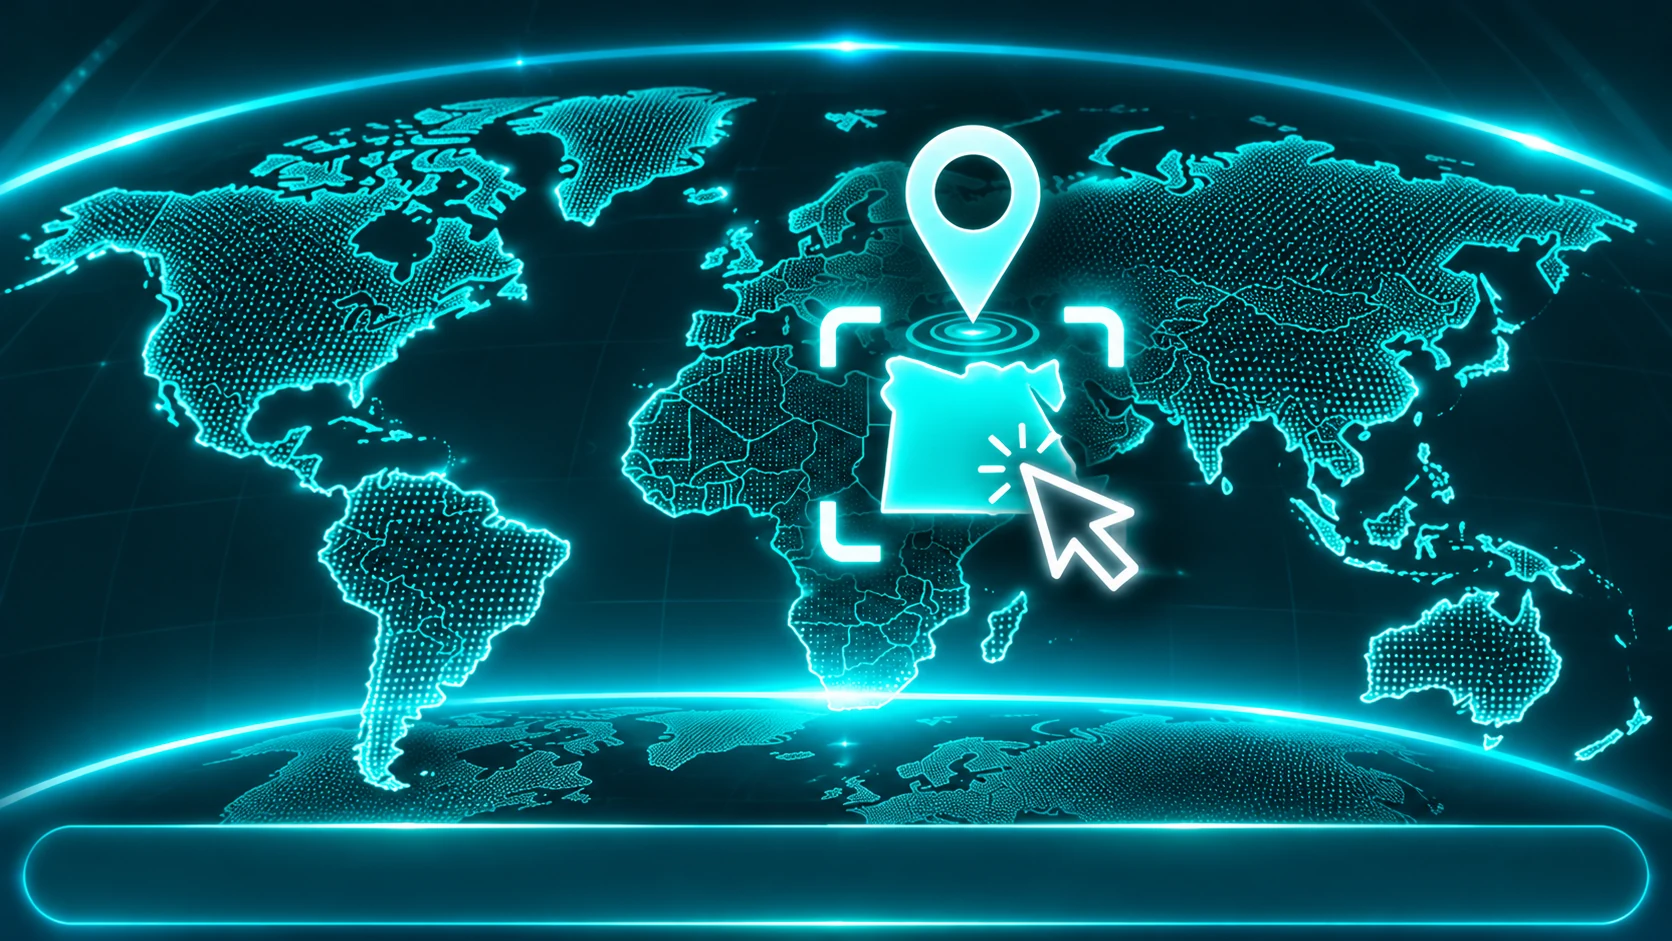
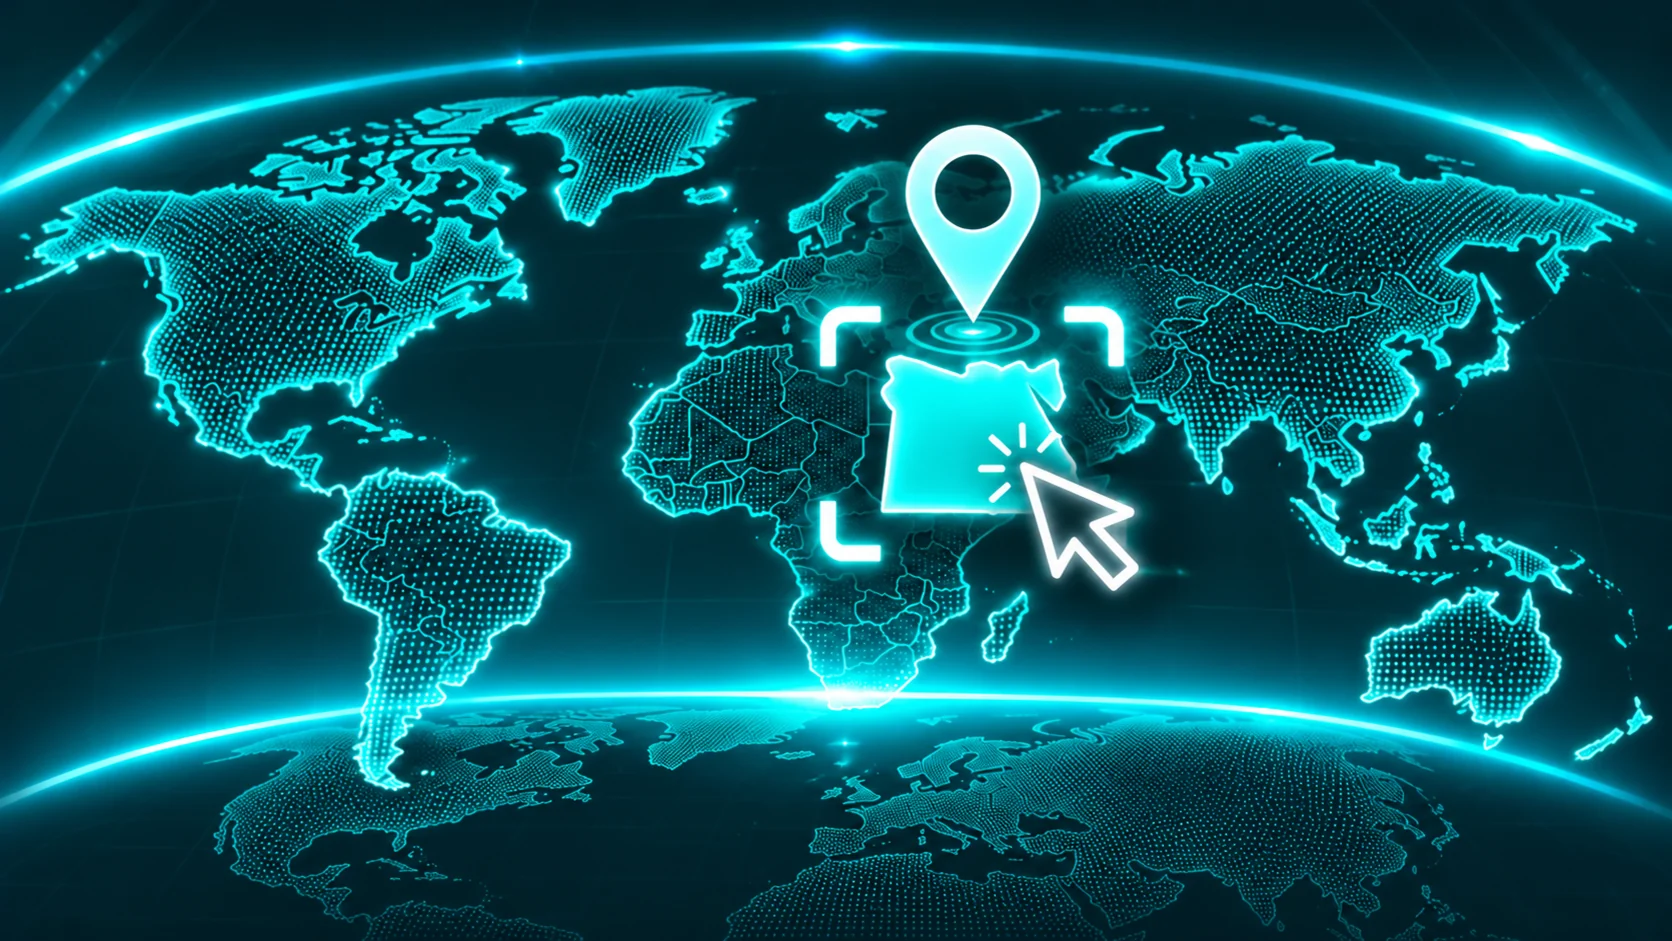
Refine homepage map cover and show fractional progress

diff --git a/index.html b/index.html
@@ -655,7 +655,7 @@ window.__gv138BootFailsafe=setTimeout(function(){
 </div>
 <script src="https://cdn.jsdelivr.net/npm/d3-array@3/dist/d3-array.min.js"></script><script src="https://cdn.jsdelivr.net/npm/d3-geo@3/dist/d3-geo.min.js"></script><script src="https://cdn.jsdelivr.net/npm/topojson-client@3/dist/topojson-client.min.js"></script>
 <script src="https://cdn.jsdelivr.net/npm/globe.gl@2.46.2/dist/globe.gl.min.js"></script><script src="./app.js?v=gv669-desert-expansion"></script><script src="./category-premium-covers-v176.js?v=gv549-world-astronomy"></script><script src="./place-copy-v103.js?v=gv106-waterfall-intros"></script><script src="./quality.js?v=phase41-a91d6"></script><script src="./enhancements-v136.js?v=gv669-desert-expansion"></script><script src="./capital-localization.js?v=gv491-currency-localization"></script><script src="./language-v6.js?v=gv356-capital-placeholder-fix"></script><script src="./map-mobile-v6.js?v=phase41-a91d6"></script><script src="./reading-v6.js?v=phase41-a91d6"></script><script src="./map-v7.js?v=gv126-results-layout"></script><script src="./encyclopedia-v9.js?v=gv372-audit-pop-year"></script><script src="./cinematic-v10.js?v=phase41-a91d6"></script>
-<script src="./visual-v11.js?v=gv550-wonders-separator"></script><script src="./topics-v12.js?v=gv667-unique-forest-gulf-counts"></script><script src="./places-v13.js?v=gv669-desert-expansion"></script><script src="./detail-v14.js?v=gv669-desert-expansion"></script><script src="./home-v17.js?v=gv676-capitals-cover"></script><script src="./icons-v18.js?v=phase46-cache-fix"></script><script src="./game-bank-v109.js?v=gv111-game-pools"></script><script src="./game-countries-v111.js?v=gv493-flag-games-qa"></script><script src="./game-levels-v110.js?v=gv111-difficulty-atlas-fix"></script><script src="./map-challenge-v112.js?v=gv112-161-map-countries"></script><script src="./game-classify-v113.js?v=gv113b-no-answer-leaks"></script><script src="./game-quality-v114.js?v=gv114b-curated-quiz-integrity"></script><script src="./game-concepts-v115.js?v=gv115-concepts100"></script><script src="./game-expansion-v115.js?v=gv116-curated-quiz-bank"></script><script src="./game-classification-v116.js?v=gv116b-reviewed-classification"></script><script src="./game-language-v123.js?v=gv123-all-options-localized"></script><script src="./game-bilingual-v124.js?v=gv124-two-line-answers"></script><script src="./premium-loader-v139.js"></script><script src="./atlas-premium-v155.js?v=gv595-initial-map-filter"></script><script src="./atlas-landmarks-v154.js?v=gv166-focus-hook"></script><script src="./atlas-safe-regions-v150.js"></script><script src="./map-toolbar-v146.js?v=gv163-restored-categories"></script><script src="./atlas-ocean-dots-v152.js"></script><script src="./atlas-card-consistency-v156.js"></script><script src="./atlas-country-shell-v157.js"></script><script src="./atlas-smart-explore-v158.js"></script><script src="./map-first-mobile-v160.js?v=gv160-fix"></script><script src="./map-filters-compact-v161.js?v=gv161-preserve-landmarks"></script><script src="./map-mobile-fit-v162.js?v=gv162-viewport-fix"></script><script src="./atlas-learning-cards-v164.js?v=gv669-desert-expansion"></script><script src="./atlas-smart-highlight-v167.js?v=gv167-focus-fix"></script><script src="./tourism-attractions-v168.js?v=gv657-tourism-intro-lines"></script><script src="./tourism-filter-visibility-v169.js?v=gv169-visible-filter"></script><script src="./tourism-country-guide-v170.js?v=gv620-72-countries"></script><script src="./tourism-country-cards-v181.js?v=gv656-tourism-intro"></script><script src="./sidebar-toggle-fix-v181.js?v=gv217-sections-shortcut"></script><script src="./tourism-articles-ar-v202.js?v=gv202-48-editorial-articles"></script><script src="./tourism-enrichment-v206.js?v=gv206-eg-fr-8"></script><script src="./tourism-enrichment-v207.js?v=gv207-it-sa-8"></script><script src="./tourism-enrichment-v208.js?v=gv208-turkey-spain-8"></script><script src="./tourism-enrichment-v212.js?v=gv212-uk-us-8"></script><script src="./tourism-enrichment-v213.js?v=gv213-cn-in-8"></script><script src="./tourism-enrichment-v214.js?v=gv214-jp-ae-8"></script><script src="./tourism-enrichment-v215.js?v=gv215-asia-16"></script><script src="./tourism-editorial-phase1-v505.js?v=gv505-editorial-24"></script><script src="./tourism-editorial-phase2-v506.js?v=gv507-editorial-40-keyfix"></script><script src="./tourism-editorial-phase3-v507.js?v=gv622-strasbourg"></script><script src="./tourism-editorial-phase4-v508.js?v=gv508-editorial-40"></script><script src="./tourism-editorial-phase5-v509.js?v=gv509-editorial-29"></script><script src="./tourism-editorial-phase6-v510.js?v=gv510-vietnam-three"></script><script src="./tourism-deep-enrichment-v597.js?v=gv646-final-length-audit"></script><script src="./tourism-english-profiles-v647.js?v=gv666-english-complete"></script><script src="./tourism-knowledge-v196.js?v=gv656-tourism-intro"></script><script src="./navigation-refresh-v193.js?v=gv218-recovery"></script><script src="./wonders-atlas-v228.js?v=gv270-text-cleanup"></script><script src="./astronomy-v231.js?v=gv338-astronomy-unified-hero-uncropped"></script><script src="./solar-system-v232.js?v=gv253-render-embedded-summaries"></script><script src="./planet-experience-v234.js?v=gv237-two-physical-rows"></script><script src="./astronomy-experiences-v235.js?v=gv269-clean-layout"></script><script src="./astronomy-lessons-v238.js?v=gv284-final-science-edit"></script><script src="./astronomy-chapters-v239.js?v=gv285-ar-figures-final"></script><script src="./astronomy-depth-v242.js?v=gv242-audit"></script><script src="./astronomy-editorial-v252.js?v=gv254-venus-accuracy"></script>
+<script src="./visual-v11.js?v=gv550-wonders-separator"></script><script src="./topics-v12.js?v=gv667-unique-forest-gulf-counts"></script><script src="./places-v13.js?v=gv669-desert-expansion"></script><script src="./detail-v14.js?v=gv669-desert-expansion"></script><script src="./home-v17.js?v=gv677-home-progress"></script><script src="./icons-v18.js?v=phase46-cache-fix"></script><script src="./game-bank-v109.js?v=gv111-game-pools"></script><script src="./game-countries-v111.js?v=gv493-flag-games-qa"></script><script src="./game-levels-v110.js?v=gv111-difficulty-atlas-fix"></script><script src="./map-challenge-v112.js?v=gv112-161-map-countries"></script><script src="./game-classify-v113.js?v=gv113b-no-answer-leaks"></script><script src="./game-quality-v114.js?v=gv114b-curated-quiz-integrity"></script><script src="./game-concepts-v115.js?v=gv115-concepts100"></script><script src="./game-expansion-v115.js?v=gv116-curated-quiz-bank"></script><script src="./game-classification-v116.js?v=gv116b-reviewed-classification"></script><script src="./game-language-v123.js?v=gv123-all-options-localized"></script><script src="./game-bilingual-v124.js?v=gv124-two-line-answers"></script><script src="./premium-loader-v139.js"></script><script src="./atlas-premium-v155.js?v=gv595-initial-map-filter"></script><script src="./atlas-landmarks-v154.js?v=gv166-focus-hook"></script><script src="./atlas-safe-regions-v150.js"></script><script src="./map-toolbar-v146.js?v=gv163-restored-categories"></script><script src="./atlas-ocean-dots-v152.js"></script><script src="./atlas-card-consistency-v156.js"></script><script src="./atlas-country-shell-v157.js"></script><script src="./atlas-smart-explore-v158.js"></script><script src="./map-first-mobile-v160.js?v=gv160-fix"></script><script src="./map-filters-compact-v161.js?v=gv161-preserve-landmarks"></script><script src="./map-mobile-fit-v162.js?v=gv162-viewport-fix"></script><script src="./atlas-learning-cards-v164.js?v=gv669-desert-expansion"></script><script src="./atlas-smart-highlight-v167.js?v=gv167-focus-fix"></script><script src="./tourism-attractions-v168.js?v=gv657-tourism-intro-lines"></script><script src="./tourism-filter-visibility-v169.js?v=gv169-visible-filter"></script><script src="./tourism-country-guide-v170.js?v=gv620-72-countries"></script><script src="./tourism-country-cards-v181.js?v=gv656-tourism-intro"></script><script src="./sidebar-toggle-fix-v181.js?v=gv217-sections-shortcut"></script><script src="./tourism-articles-ar-v202.js?v=gv202-48-editorial-articles"></script><script src="./tourism-enrichment-v206.js?v=gv206-eg-fr-8"></script><script src="./tourism-enrichment-v207.js?v=gv207-it-sa-8"></script><script src="./tourism-enrichment-v208.js?v=gv208-turkey-spain-8"></script><script src="./tourism-enrichment-v212.js?v=gv212-uk-us-8"></script><script src="./tourism-enrichment-v213.js?v=gv213-cn-in-8"></script><script src="./tourism-enrichment-v214.js?v=gv214-jp-ae-8"></script><script src="./tourism-enrichment-v215.js?v=gv215-asia-16"></script><script src="./tourism-editorial-phase1-v505.js?v=gv505-editorial-24"></script><script src="./tourism-editorial-phase2-v506.js?v=gv507-editorial-40-keyfix"></script><script src="./tourism-editorial-phase3-v507.js?v=gv622-strasbourg"></script><script src="./tourism-editorial-phase4-v508.js?v=gv508-editorial-40"></script><script src="./tourism-editorial-phase5-v509.js?v=gv509-editorial-29"></script><script src="./tourism-editorial-phase6-v510.js?v=gv510-vietnam-three"></script><script src="./tourism-deep-enrichment-v597.js?v=gv646-final-length-audit"></script><script src="./tourism-english-profiles-v647.js?v=gv666-english-complete"></script><script src="./tourism-knowledge-v196.js?v=gv656-tourism-intro"></script><script src="./navigation-refresh-v193.js?v=gv218-recovery"></script><script src="./wonders-atlas-v228.js?v=gv270-text-cleanup"></script><script src="./astronomy-v231.js?v=gv338-astronomy-unified-hero-uncropped"></script><script src="./solar-system-v232.js?v=gv253-render-embedded-summaries"></script><script src="./planet-experience-v234.js?v=gv237-two-physical-rows"></script><script src="./astronomy-experiences-v235.js?v=gv269-clean-layout"></script><script src="./astronomy-lessons-v238.js?v=gv284-final-science-edit"></script><script src="./astronomy-chapters-v239.js?v=gv285-ar-figures-final"></script><script src="./astronomy-depth-v242.js?v=gv242-audit"></script><script src="./astronomy-editorial-v252.js?v=gv254-venus-accuracy"></script>
 <script src="./astronomy-fact-explanations-v277.js?v=gv284-final-science-edit"></script>
 <script src="./astronomy-comparisons-v278.js?v=gv283-content-polish"></script>
 <script src="./astronomy-reading-flow-v281.js?v=gv285-ar-science-figures"></script><script>

diff --git a/home-v17.js b/home-v17.js
@@ -39,13 +39,13 @@ function numbers(){
  const p=saved();const ids=Object.keys(p).filter(k=>/^[a-z]+_\d+$/.test(k)&&p[k]);
  const total=Object.values(geo).reduce((n,v)=>n+(Array.isArray(v)?v.length:0),0);
  const valid=ids.filter(k=>{const [c,i]=k.split('_');return Array.isArray(geo[c])&&Number(i)>=0&&Number(i)<geo[c].length});
- return {seen:valid.length,total,percentage:total?Math.min(100,Math.round(valid.length/total*100)):0};
+ return {seen:valid.length,total,percentage:total?Math.min(100,valid.length/total*100):0};
 }
 const homeGameCovers={
  capitals:'capitals.webp?v=gv676',
  flags:'flags.webp',
  silhouette:'country-shape.webp',
- mapfind:'locate-country.webp'
+ mapfind:'locate-country.webp?v=gv677'
 };
 function games(){
  const items=recommendedGames.slice(0,4).map(g=>({id:g[0],name:T(g[1],g[2])}));
@@ -58,8 +58,12 @@ function games(){
 }
 function progress(){
  const n=numbers(),ids=['continents','countries','oceans','rivers'];
+ const roundedPercentage=Math.round(n.percentage*10)/10;
+ const percentLabel=n.percentage>0 && roundedPercentage===0
+  ? '<bdi dir="ltr">&lt;0.1%</bdi>'
+  : Math.min(roundedPercentage,n.seen===n.total?100:99.9)+'%';
  return '<section class="gv17-progress" aria-labelledby="gv17ProgressTitle"><div class="gv17-heading"><div><h2 id="gv17ProgressTitle">'+T('أكمل رحلة الاستكشاف','Continue Exploring')+'</h2><p>'+T('كل مكان تتعلمه يقربك من اكتشاف كوكبنا بالكامل.','Every place you learn brings you closer to exploring the planet.')+'</p></div><button type="button" class="gv17-text-action" data-page="progress">'+T('كل تقدمي','My progress')+' '+icon('arrow',16)+'</button></div>'+
- '<div class="gv17-progress-grid"><div class="gv17-progress-main"><div class="gv17-ring" style="--gv17-progress:'+n.percentage+'%"><div><strong>'+n.percentage+'%</strong><small>'+T('مكتمل','Completed')+'</small></div></div><div class="gv17-progress-summary"><span>'+T('إنجازاتك حتى الآن','YOUR EXPLORATION')+'</span><strong class="gv49-progress-count" dir="ltr">'+n.seen+' <small>/ '+n.total+'</small></strong><p>'+T('مكانًا ومعلمًا تم تعلّمها','places & landmarks learned')+'</p><button type="button" data-page="learn">'+T('تابع التعلّم','Continue learning')+' '+icon('arrow',16)+'</button></div></div>'+
+ '<div class="gv17-progress-grid"><div class="gv17-progress-main"><div class="gv17-ring" style="--gv17-progress:'+n.percentage+'%"><div><strong>'+percentLabel+'</strong><small>'+T('مكتمل','Completed')+'</small></div></div><div class="gv17-progress-summary"><span>'+T('إنجازاتك حتى الآن','YOUR EXPLORATION')+'</span><strong class="gv49-progress-count" dir="ltr">'+n.seen+' <small>/ '+n.total+'</small></strong><p>'+T('مكانًا ومعلمًا تم تعلّمها','places & landmarks learned')+'</p><button type="button" data-page="learn">'+T('تابع التعلّم','Continue learning')+' '+icon('arrow',16)+'</button></div></div>'+
  '<div class="gv17-progress-categories">'+ids.map(id=>{const c=cats.find(x=>x.id===id),done=Math.max(0,(saved()[id]||0)),count=geo[id]?.length||0,pct=progressValue(id);return '<button type="button" class="gv17-progress-row" data-cat="'+id+'"><div class="gv17-progress-label"><strong>'+escapeHTML(label(c))+'</strong><span dir="ltr">'+done+' / '+count+'</span></div><div class="gv17-track"><i style="width:'+pct+'%"></i></div></button>'}).join('')+'</div></div></section>';
 }
 home=function(){
